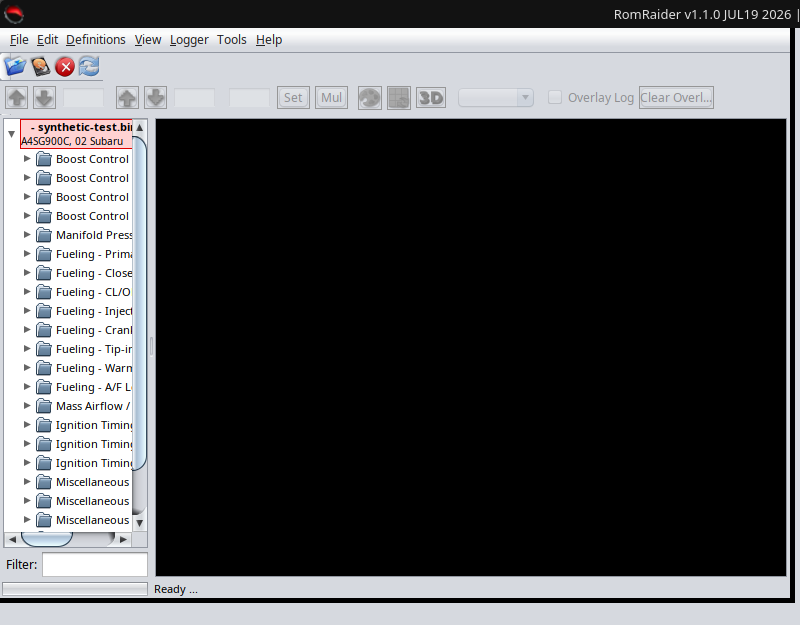
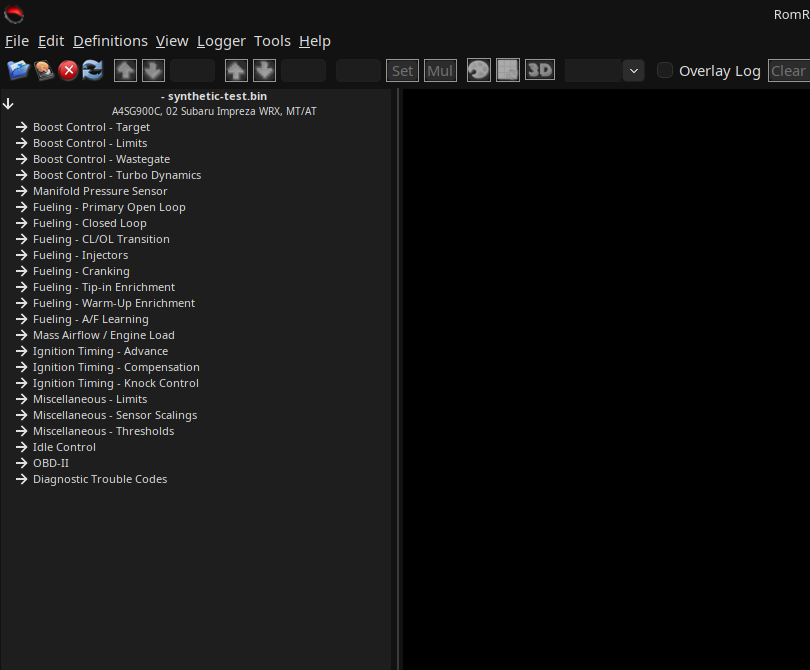
Expand editor and logger workflow documentation with detailed usage steps

diff --git a/README.md b/README.md
@@ -22,8 +22,9 @@ See Building_RomRaider.txt for information on generating usable binaries.
 | ------------------------------------------------------------------------------------------------- |
 | ![RomRaider Logger showing the full list of loggable ECU parameters](docs/screenshots/logger.png) |
 
-All three screenshots are from this fork's native Linux build (Fedora/KDE,
-Nimbus look and feel with native window decorations).
+All three screenshots are from this fork's native Linux build (Fedora/KDE),
+using GTKLookAndFeel with native window decorations — the interface follows
+your system's GTK light/dark theme automatically.
 
 ## Linux packaging
 
@@ -60,20 +61,76 @@ RomRaiderLogger   # Datalogger - connect to a running ECU over serial/USB
 On first launch, the Editor will prompt you to configure an ECU definition
 file, and the Logger will prompt for a logger definition file — see
 [Definition auto-loading](#definition-auto-loading) below to skip that
-prompt entirely. Typical workflow in the Editor:
+prompt entirely.
+
+#### ECU Editor
 
 1. `File > Open Image...` and select a `.bin`/`.hex` ROM dump.
 2. Expand a category in the definition tree on the left (e.g. `Fueling`,
    `Ignition Timing`, `Boost Control`) and press Enter/double-click a table
    to open it.
 3. Tables are color-coded (a red/green/blue heatmap) so outlying values
-   stand out at a glance; edit cells directly or use the toolbar's
-   increment/decrement/interpolate tools.
-4. `File > Save Image...` writes your changes back out to a `.bin`.
+   stand out at a glance:
+   - Edit cells directly, or select a range and use the toolbar's `Set`
+     (set to an exact value), `Mul` (multiply by a percentage), or the
+     fine/coarse increment-decrement arrows.
+   - `Edit > Vertical Interpolate` / `Horizontal Interpolate` / `Interpolate`
+     smooths a range of cells between two edited endpoints.
+   - The color-wheel toolbar icon toggles axis coloring; the `3D` icon
+     opens an interactive 3D plot of the table.
+   - `Table > Compare` diffs the table against its original/revert-point
+     values, another open ROM, or a specific table in another ROM.
+4. `Edit > Undo Selected Changes` / `Undo All Changes` / `Set Revert Point`
+   manage your edit history per-table.
+5. `File > Save Image...` (or `Save Image As...`) writes your changes back
+   out to a `.bin`.
 
-In the Logger, tick the checkboxes next to the parameters you want to
-monitor, choose the correct `COM Port`, then `Start file log` to begin
-logging to disk while connected to a vehicle.
+Other useful menus:
+
+- `Definitions > Definition Manager...` — add, remove, or reorder the ECU
+  definition files RomRaider searches when identifying a ROM (see
+  [Definition auto-loading](#definition-auto-loading) below).
+- `Definitions > Get Definitions...` — fetch updated definitions.
+- `Edit > Compare Images...` — open a side-by-side diff of two ROM files.
+- `Edit > Convert Image` — convert a ROM between 160KB and 192KB sizes.
+- `View > User Level` — raise the visible table complexity for advanced
+  tuning (definitions can mark tables as requiring a higher user level).
+- `Logger > Launch Logger...` — open the Logger from within the Editor.
+- `Tools > Dataflow Simulations...` — visualize how sensor inputs flow
+  into calculated ECU values.
+- `Edit > RomRaider Settings...` — general behavior, table display (cell
+  colors/size/font), clipboard format, toolbar icon set, and UI scaling.
+
+#### RomRaider Logger
+
+1. Under the `Parameters` (or `Switches` / `External Sensors`) tab on the
+   left, tick the checkboxes next to the values you want to monitor. Some
+   rows have a units dropdown (e.g. AFR vs. Lambda) you can change inline.
+2. Pick the correct `COM Port` at the top and make sure `ECU` (or `TCU`)
+   is checked, then connect your cable with the ignition on.
+3. Switch between the tabs along the bottom to view the data differently:
+   - `Data` — live table of current/min/max values (shown by default).
+   - `Graph` — real-time line graphs of selected parameters.
+   - `Dashboard` — configurable gauges.
+   - `MAF` / `Injector` — dedicated MAF and injector scaling/tuning views.
+   - `Dyno` — calculates horsepower/torque from logged acceleration runs.
+4. Set a `Logfile Text` prefix and click `Start file log` to record to
+   disk; `Reset Data` clears the min/max columns without stopping.
+
+Other useful menus:
+
+- `Settings > Logger Definition Location...` — point at a different
+  logger definition file (see
+  [Definition auto-loading](#definition-auto-loading) below).
+- `Settings > Log File Output Location...` — where log files are saved.
+- `Tools > Reset ECU` / `Read Diagnostic Codes` — quick ECU actions.
+- `Tools > Global Timing & Idle RPM Adjustment` — adjust timing/idle
+  targets live without editing the ROM.
+- `Tools > Learning Table Values` — view the ECU's adaptive learning
+  tables.
+- `Plugins` — external logger hardware (AEM, PLX, 14Point7, Phidgets,
+  Zeitronix, TechEdge, etc. — see the known limitation below for the one
+  plugin that doesn't work on Linux).
 
 ### Definition auto-loading
 